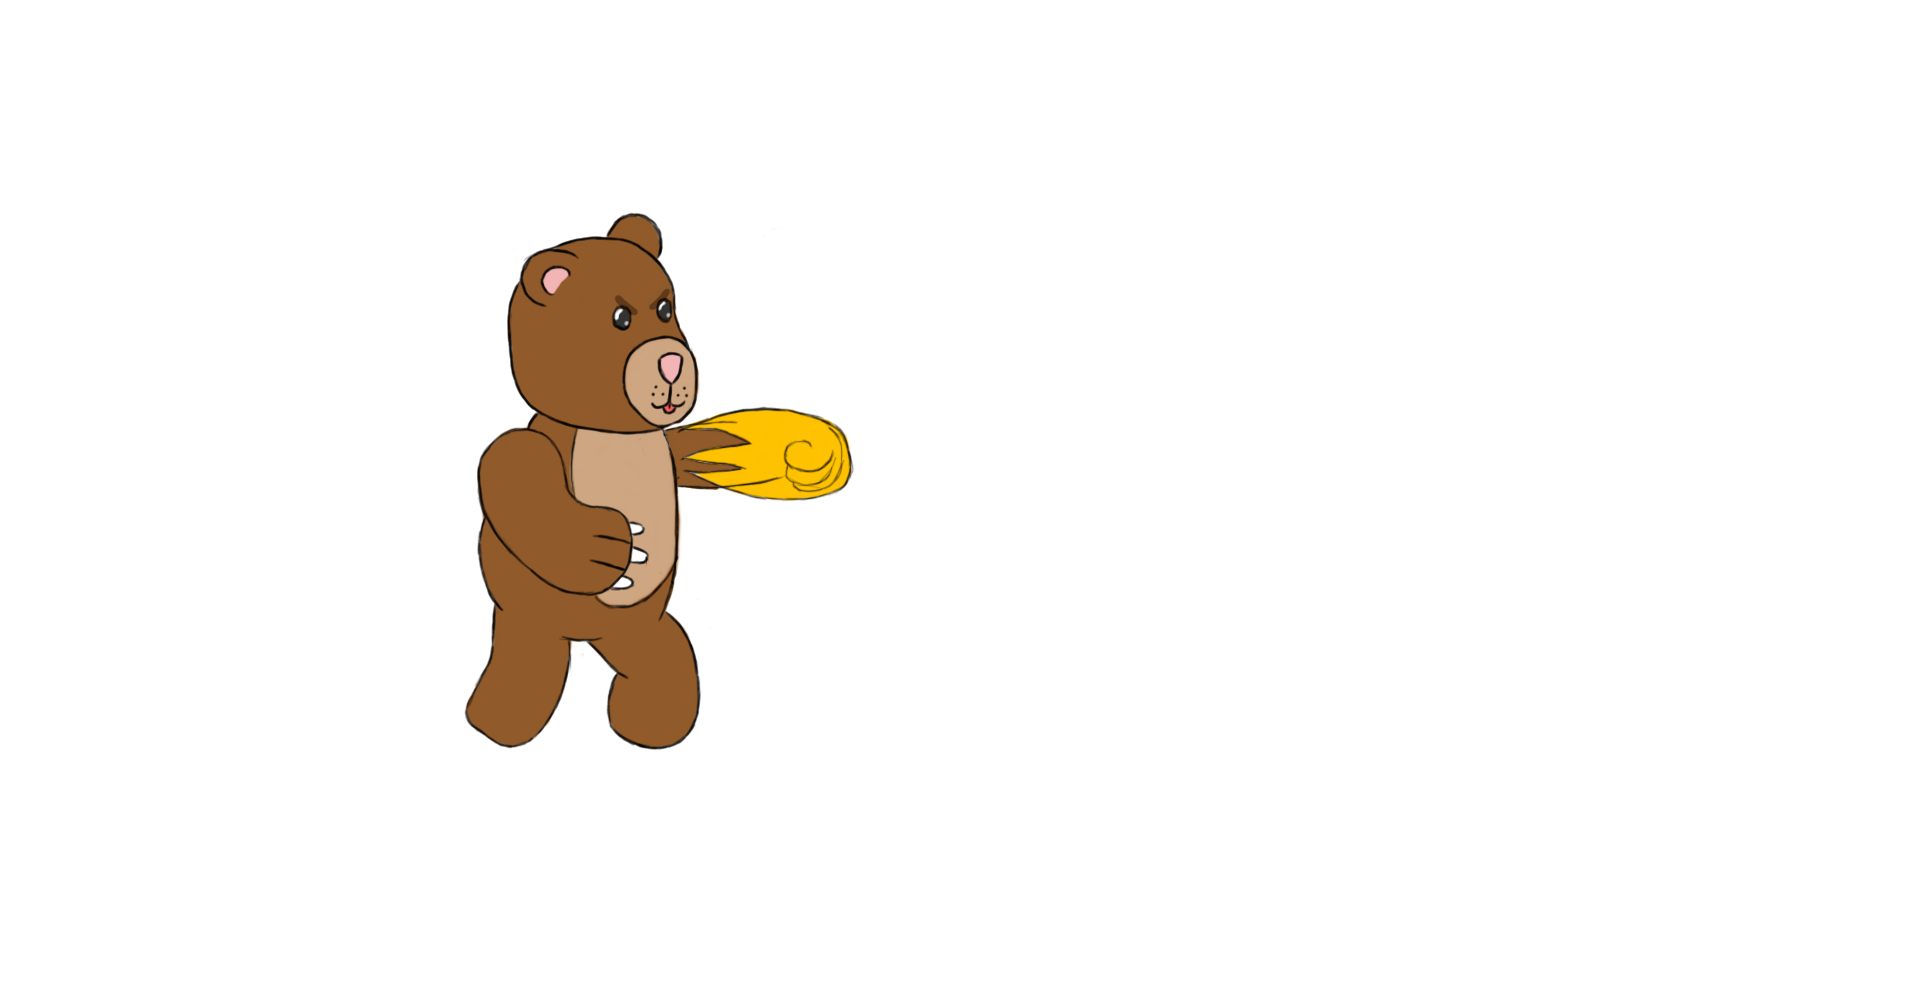
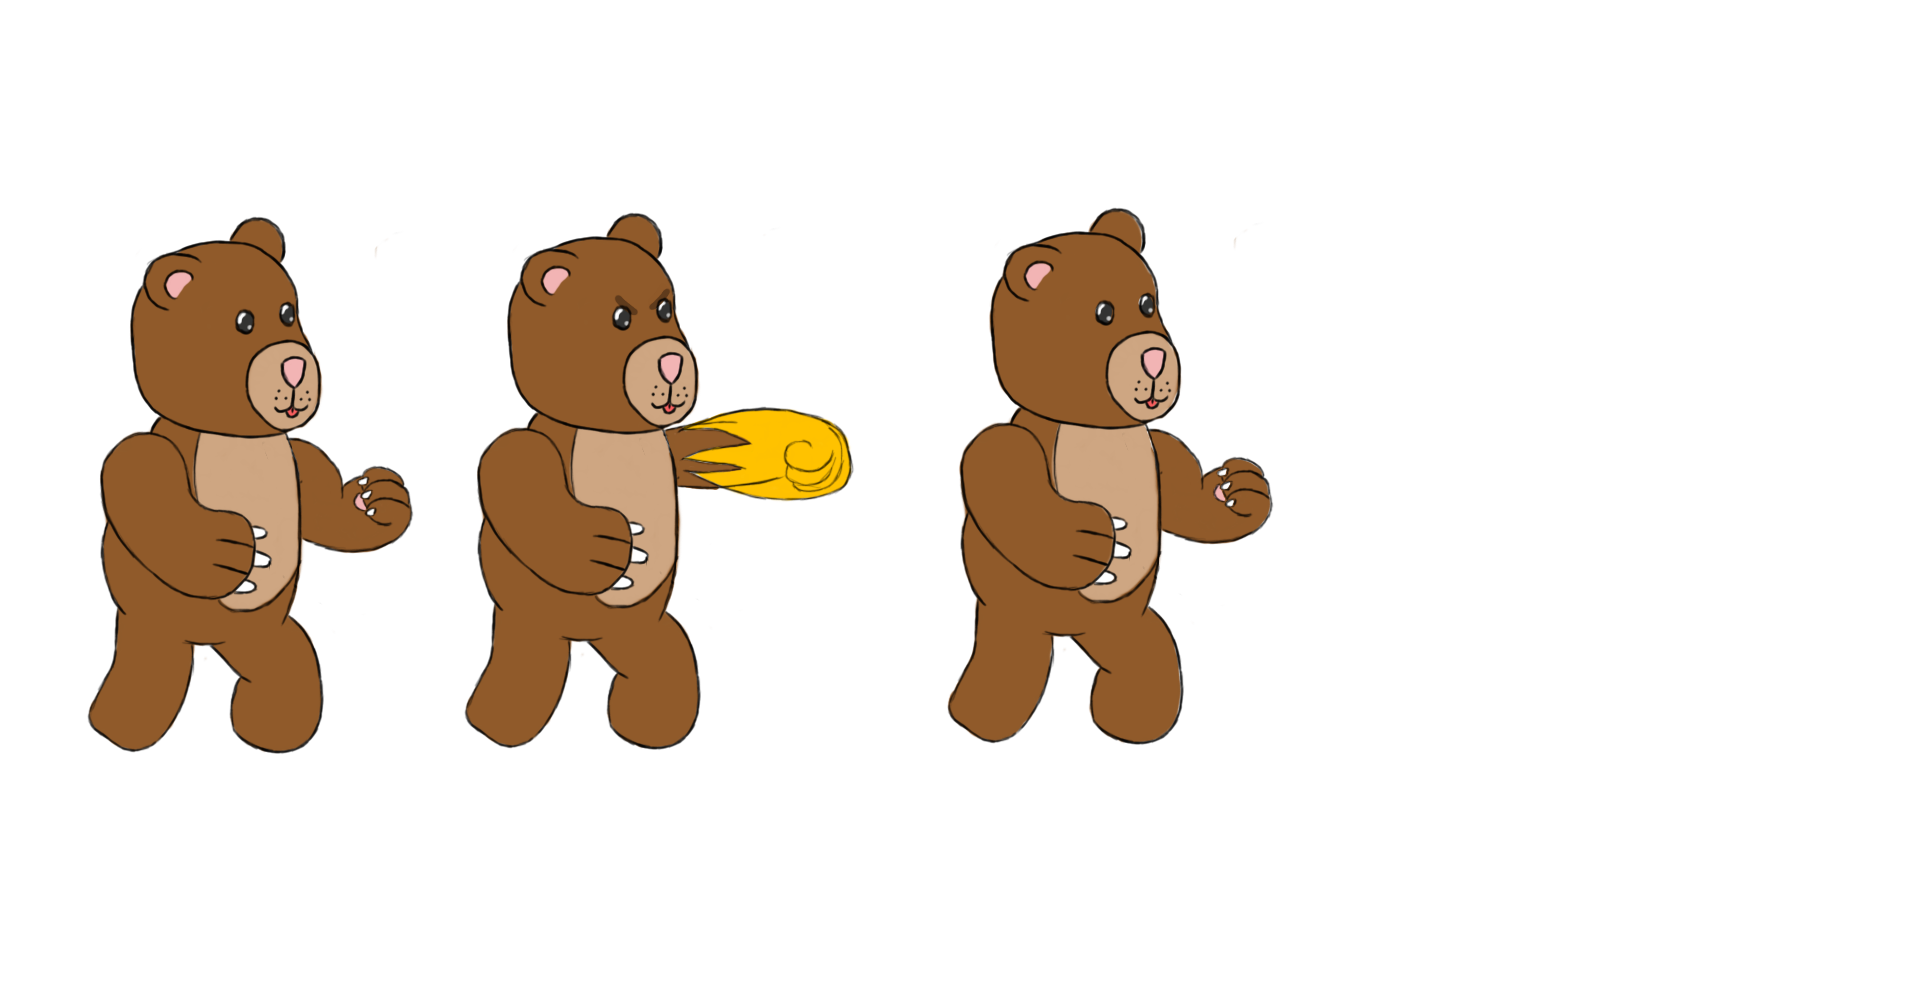
awesome punch

Changed region(s): [[0.0312, 0.2177, 0.2188, 0.7773], [0.4688, 0.1866, 0.6875, 0.7462]]

diff --git a/StustaJamFighter/Assets/Scripts/Player.cs b/StustaJamFighter/Assets/Scripts/Player.cs
@@ -78,7 +78,7 @@ public class Player : MonoBehaviour {
 	
 	public void Punch()
 	{
-		Debug.Log ("PUNCH");
+		animator.SetTrigger ("punch");
 	}
 	
 	public void HeavyPunch()
